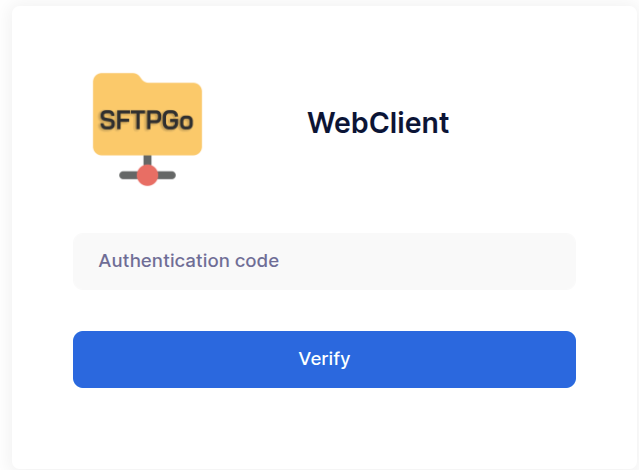
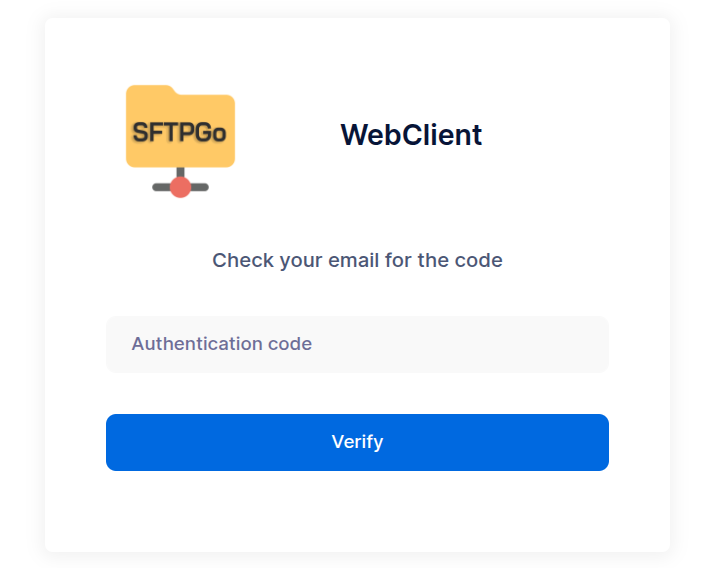
update for October release

diff --git a/docs/tutorials/shares.md b/docs/tutorials/shares.md
@@ -1,0 +1,141 @@
+# Public Shares
+
+Public shares are a quick and secure way to share files directly from the WebClient UI without creating user accounts, making collaboration with external contacts simple and efficient.
+
+Each public share generates a unique, web-accessible URL, and users can configure access controls such as:
+
+- Read-only or upload permissions
+- Optional password protection
+- Expiration date
+- Download/upload limits
+- Email-based access for extra security
+
+Public shares are managed by the users themselves, not by administrators. This makes it easy for users with access to files to securely collaborate with clients, partners, or external collaborators — without requiring administrator intervention.
+
+## Preliminary Note
+
+To enable email-based access to public shares and email notifications, you need to configure an SMTP server.
+
+To configure and test your SMTP settings, open the WebAdmin UI, then go to the "Configurations" page under the "Server Manager" section. There, you can enter the required SMTP configuration parameters.
+
+![SMTP](../assets//img/smtp.png){data-gallery="smtp"}
+
+## Create a Share with Email Authentication
+
+To share a file or folder, open the WebClient, click the three-dot menu next to the item, and select "Share".
+
+![WebClient add share](../assets/img/webclient_add_share.png){data-gallery="webclient-share"}
+
+Next, configure the sharing options. You can define the access level—read, write, or read/write—to control what actions recipients are allowed to perform.
+
+To enable email-based authentication, enter one or more email addresses and check the "Email authentication" option.
+
+![WebClient add share](../assets/img/webclient_config_share.png){data-gallery="webclient-config-share"}
+
+You can also require recipients to accept a (customizable) legal agreement before accessing the share. Additionally, you can set an expiration date, limit the maximum number of accesses, and restrict access to specific IP addresses or networks.
+
+![WebClient add share advanced](../assets/img/webclient_config_share1.png){data-gallery="webclient-config-share"}
+
+To share content with external users, go to the "Shares" page, click the "Link" icon next to the desired share, and copy the access URL. In most cases, a single directory will be shared.
+
+![WebClient share link](../assets/img/webclient_share_link.png){data-gallery="webclient-share-link"}
+
+## How External Users Access the Share
+
+External users can access the share link by entering their email address, after which they receive a one-time login code via email, valid for 10 minutes.
+
+![WebClient share login](../assets/img/webclient_share_login.png){data-gallery="webclient-share-login"}
+
+![WebClient share auth](../assets/img/webclient_share_auth.png){data-gallery="webclient-share-login"}
+
+The content visible to the user depends on the type of share they’ve been granted access to.
+
+### Read-Only Shares
+
+Read-only shares allow external users to browse the shared directories and files. Users can view file names, structure, and metadata (such as file size and modification date), but cannot upload, modify, or delete any content.
+
+Users can:
+
+- Download individual files directly.
+- Download all shared files and folders as a single compressed .zip archive for convenience.
+
+This share type is ideal for securely distributing documents, reports, or any other files where write access is not required.
+
+![WebClient read only share](../assets/img/webclient_read_only_share.png){data-gallery="webclient-ro-share"}
+
+### Write-Only shares
+
+Write-only shares allow external users to upload files to a shared location, but they cannot view, browse, or download any existing content.
+
+Upon accessing the share, users see a simple upload interface that displays:
+
+- The name of the share, to provide context.
+- Options to select files manually or use drag and drop for quick uploads.
+
+![WebClient read only share](../assets/img/webclient_write_only_share.png){data-gallery="webclient-w-share"}
+
+### Read/write Shares
+
+Read/write shares provide external users with full access to the shared content, allowing them to:
+
+- Browse files and folders within the share.
+- Download individual files or the entire shared content as a .zip archive.
+- Upload new files via manual selection or drag and drop.
+- Create new folders within the shared structure.
+
+This type of share combines the capabilities of both read-only and write-only shares, making it ideal for collaborative scenarios where external users need to both access and contribute files to a shared workspace.
+
+![WebClient read write share](../assets/img/webclient_read_write_share.png){data-gallery="webclient-rw-share"}
+
+## Automatically Send Share Links
+
+Administrators can configure an EventManager rule and corresponding action from the WebAdmin UI to automatically send an email notification to all email addresses associated with a share whenever a new share is created.
+The email includes the access link, ensuring that recipients are promptly notified without requiring any manual steps.
+
+From the WebAdmin UI, create an email action similar to the example below.
+
+![WebAdmin action add share notification](../assets/img/webadmin_action_add_share_notification.png){data-gallery="webadmin-add-share-notify"}
+
+Use the `{{.Email}}` placeholder to automatically insert the email addresses associated with the share—these are the recipients who can authenticate to access it.
+
+The share access URL follows this format:
+
+```shell
+https://sftp.example.com/web/client/pubshares/{{.ObjectName | urlPathEscape }}/browse
+```
+
+Where:
+
+- `https://sftp.example.com` is the externally accessible base URL of your SFTPGo installation.
+- `{{.ObjectName}}` expands to the ID of the share.
+- The `urlPathEscape` helper function ensures the share ID is properly URL-encoded.
+
+Finally, create an EventManager rule that triggers this action whenever a new share is created.
+
+![WebAdmin rule add share notification](../assets/img/webadmin_rule_add_share_notification.png){data-gallery="webadmin-add-share-notify"}
+![WebAdmin rule add share notification1](../assets/img/webadmin_rule_add_share_notification1.png){data-gallery="webadmin-add-share-notify"}
+
+## Enable Upload/Download Notifications
+
+SFTPGo allows administrators to configure notifications when an external user uploads or downloads a file through a share.
+
+For example, you can set up an EventManager rule and action to automatically send an email notification to the SFTPGo user who created the share.
+The notification can include:
+
+- The name and details of the file uploaded or downloaded.
+- The email address of the external user who accessed the share and performed the action.
+
+Here is an example action.
+
+![WebAdmin share event notification](../assets/img/webadmin_share_event_notification.png){data-gallery="webadmin-share-event-notify"}
+
+In this case, the action is triggered by a file system event (such as an upload or download), so:
+
+- The `{{.Email}}` placeholder expands to the email address of the SFTPGo user who created the share.
+- The `{{.ExtName}}` placeholder expands to the email address used by the external user to access the share.
+
+Here is an example rule to execute the above action.
+
+![WebAdmin share event rule](../assets/img/webadmin_share_event_rule.png){data-gallery="webadmin-share-event-notify"}
+
+Naturally, all operations performed on shares, including uploads and downloads, also recorded in the audit logs.

diff --git a/docs/ssh.md b/docs/ssh.md
@@ -8,39 +8,6 @@ The SFTP implementation supports the SFTP sever protocol [version 3](https://dat
 
 ## SSH commands
 
-Some SSH commands are implemented directly inside SFTPGo, while for others we use system commands that need to be installed and in your system's `PATH`.
-
-For system commands we have no direct control on file creation/deletion and so there are some limitations:
-
-- we cannot allow them if the target directory contains virtual folders or file extensions filters
-- system commands work only on local filesystem
-- we cannot avoid to leak real filesystem paths
-- quota check is suboptimal
-- maximum size restriction on single file is not respected
-- data at-rest encryption is not supported
-
- If quota is enabled and SFTPGo receives a system command, the used size and number of files are checked at the command start and not while new files are created/deleted. While the command is running the number of files is not checked, the remaining size is calculated as the difference between the max allowed quota and the used one, and it is checked against the bytes transferred via SSH. The command is aborted if it uploads more bytes than the remaining allowed size calculated at the command start. Anyway, we only see the bytes that the remote command sends to the local one via SSH. These bytes contain both protocol commands and files, and so the size of the files is different from the size transferred via SSH: for example, a command can send compressed files, or a protocol command (few bytes) could delete a big file. To mitigate these issues, quotas are recalculated at the command end with a full scan of the directory specified for the system command. This could be heavy for big directories. If you need system commands and quotas you could consider disabling quota restrictions and periodically update quota usage yourself using the REST API.
-
- :warning: SFTPGo attempts to sanitize system command arguments and restrict their use to the intended use cases. But these are external programs that could be used in many ways, and this could lead to unexpected behavior or even security issues. Please consider carefully before enabling the supported system commands.
-
- For these reasons we should limit system commands usage as much as possible, we currently support the following system commands:
-
-- `rsync`. The `rsync` command needs to be installed and in your system's `PATH`.
-
-At least the following permissions are required to be able to run system commands:
-
-- `list`
-- `download`
-- `upload`
-- `create_dirs`
-- `overwrite`
-- `delete`
-
-For `rsync`  we cannot avoid that it creates symlinks so if the `create_symlinks` permission is granted we add the option `--safe-links`, if it is not already set, to the received `rsync` command. This should prevent to create symlinks that point outside the home directory.
-If the user cannot create symlinks we add the option `--munge-links`, if it is not already set, to the received `rsync` command. This should make symlinks unusable (but manually recoverable).
-
-**Note**: you might consider to use SFTPGo as SFTP backend for [rclone](https://rclone.org/sftp/){:target="_blank"}, or similar software that allows to synchronize files via SFTP, instead of `rsync`, this way there are no limitations and `rclone` does not need to be installed on the server side since it uses the SFTP protocol. Suppprt for `rsync` may be removed in the future.
-
 SFTPGo supports the following built-in SSH commands:
 
 - `scp`, SFTPGo implements the SCP protocol so we can support it for cloud filesystems too and we can avoid the other system commands limitations. SCP between two remote hosts is supported using the `-3` scp option. Wildcard expansion is not supported.

diff --git a/docs/tutorials/eventmanager.md b/docs/tutorials/eventmanager.md
@@ -97,6 +97,41 @@ You can also filters events based on protocol, user and group name, filepath she
 As actions, select `upload notification`.
 Done! Try uploading a new file and you will receive the configured email notification.
 
+## PGP-compatible Encryption and Decryption
+
+PGP is a widely adopted encryption standard that ensures data confidentiality and integrity. By encrypting files before they're shared and decrypting them upon receipt, PGP protects valuable business information from unauthorized access or tampering.
+
+By using PGP actions, you can automatically encrypt or decrypt files immediately after upload.
+This supports secure, automated workflows for both sending and receiving files:
+
+- **Encrypting files for an external party**:
+The external party generates a PGP key pair and shares their public key.
+SFTPGo is configured to automatically encrypt uploaded files using the public key.
+The trading partner downloads the files and decrypts them using their private key.
+- **Decrypting files from an external party**:
+You share your public key with the external party and ask them to encrypt files before uploading.
+SFTPGo automatically decrypts the files after upload using your private key.
+The files are then available in plain form for further processing.
+
+This setup ensures end-to-end file security with minimal manual intervention.
+
+PGP actions require either a password or a key pair. When using a key pair:
+
+- For encryption, the public key is required, and the private, if provided, will be used for signing.
+- For decryption, the private key is required, and the public key, if provided, will be used for signature verification.
+
+The following example demonstrates how to configure an action to automatically encrypt files after upload. A similar approach can be used to set up automatic decryption.
+
+From the WebAdmin expand the "Event Manager" section, select "Actions" and add a new action. Create an action named `PGP encryption` set the type to `Filesystem`, the Filesystem action to `PGP` and the Public Key, like this.
+
+![PGP encryption](../assets/img/pgp_ecrypt.png){data-gallery="pgp-enc"}
+
+![PGP encryption paths](../assets//img/pgp_ecrypt_paths.png){data-gallery="pgp-enc"}
+
+The source path is defined as `/{{.VirtualPath}}`, and the target path as `/{{.VirtualPath}}.pgp`. For example, a file named `file.txt` will be encrypted and stored as `file.txt.pgp`.
+
+Now define a rule that execute this action after uploads. Additional actions can be configured as part of the rule, such as deleting the original plain text file upon successful encryption and/or sending an email notification.
+
 ## Virtual folders integration
 
 Using virtual folders with the EventManager unlocks powerful automation workflows, such as copying uploaded files to different storage locations—either within the same backend (but outside the user’s security context) or to an external server or cloud storage provider. These operations can be triggered by events like file uploads or scheduled tasks, and they require no custom scripting or complex setup.

diff --git a/docs/changelog.md b/docs/changelog.md
@@ -9,6 +9,36 @@ Upgrading to the Enterprise edition of SFTPGo is supported starting from Open So
 
 If you're migrating from an open-source installation, please follow the guide here: [**Migration from Open-Source 2.6.x to Enterprise**](tutorials/migrating.md)
 
+## Update October 9, 2025 - v2.7.20251009
+
+### New features
+
+- EventManager: Introduced support for split retention report notifications, enabling separate email notifications to be sent to individual users.
+- EventManager: Added the `{{.ExtName}}` placeholder, representing the email address used for authenticating public shares with email-based access.
+- Status page: Added display of license information.
+- WebClient: External users can now explicitly create directories in public shares.
+- WebClient: Added the ability to modify the name of a public share and display it to external users.
+- WebUI: Updated to Bootstrap 5.3.8, Axios 1.12.2, and the latest versions of other dependencies.
+- WebUI: Added support for cloning groups, rules and actions.
+- FTPD: Added TLS version and cipher suite information to the login log.
+- Windows: Added support for installing the service under a custom user account via command line.
+
+### Bug fixes
+
+- Upload Resume: Fixed edge cases related to resuming uploads with cloud storage backends.
+- WebAdmin UI: preserve condition pattern order to ensure correct filter evaluation, especially with inverse matches.
+- Cloud Storage backends: Fixed a rare bug that could cause directory listings to fail under specific conditions.
+
+### Backward incompatible changes
+
+- Removed `rsync` support. In the previous versions, rsync was executed as an external command, which means we have no insight into or control over what it actually does. From a security perspective, this is far from ideal. To be clear, there's nothing inherently wrong with `rsync` itself. However, if we were to support it properly within SFTPGo, we would need to implement the low-level protocol internally rather than relying on launching an external process. This would ensure it works seamlessly with any storage backend, just as SFTP does, for example. We recommend using one of the many alternatives that rely on the SFTP protocol, such as `rclone`.
+- To clearly differentiate the Enterprise edition from the open source version, the installer now uses a distinct GUID and installs SFTPGo into the folder named "SFTPGo Enterprise".
+
+### Documentation
+
+- Added a tutorial on [public shares](./tutorials/shares.md).
+- Expanded the Event Manager tutorial with a [PGP](./tutorials/eventmanager.md#pgp-compatible-encryption-and-decryption) usage example.
+
 ## Update August 31, 2025 - v2.7.20250831
 
 ### New features

diff --git a/docs/config-file.md b/docs/config-file.md
@@ -34,7 +34,7 @@ Supported configuration parameters for the `common` section:
 - `allowlist_status`, integer. Set to `1` to enable the allow list. The allow list can be populated using the WebAdmin or the REST API. If enabled, only the listed IPs/networks can access the configured services, all other client connections will be dropped before they even try to authenticate. Ensure to populate your allow list before enabling this setting. In multi-nodes setups, the list entries propagation between nodes may take some minutes. Default: `0`.
 - `allow_self_connections`, integer. Allow users on this instance to use other users/virtual folders on this instance as storage backend. Enable this setting if you know what you are doing. Set to `1` to enable. Default: `0`.
 - `umask`, string. Set the file mode creation mask, for example `002`. Leave blank to use the system umask. Supported on *NIX platforms. Default: blank.
-- `server_version`, string. Allow some degree of customization for the advertised software version. Set to `short` to hide the SFTPGo version number, if different from `short` the default will be used. Default: blank.
+- `server_version`, string. Allow some degree of customization for the advertised software version. Set to `short` to hide the SFTPGo version number. If set to a non-empty, valid custom string (ASCII only, max 50 characters, no newlines), it will fully override the default banner, replacing both the application name and version. The commit hash may still be appended and when SFTPGo acts as a client for another service (e.g., S3), this value may be ignored depending on the context. Default: blank.
 - `tz`, string. Defines the time zone to use for the EventManager scheduler and to control time-based access restrictions. Set to `local` to use the server's local time, otherwise UTC will be used. Default: blank.
 - `metadata`, struct containing the configuration for managing the Cloud Storage backends metadata.
   - `read`, integer. Set to `1` to read metadata before downloading files from Cloud Storage backends and making them available in notification events. Default: `0`.

diff --git a/docs/installation.md b/docs/installation.md
@@ -171,7 +171,16 @@ sudo systemctl enable sftpgo
 
 ### Windows
 
-You can download the latest Windows installer using [this link](https://download.sftpgo.com/windows/sftpgo_windows_x86_64.exe){:target="_blank"}. The installer will automatically register SFTPGo as a Windows service and start it after installation.
+You can download the latest Windows installer using [this link](https://download.sftpgo.com/windows/sftpgo_windows_x86_64.exe){:target="_blank"}. The installer includes the plugins and will automatically register SFTPGo as a Windows service, starting it immediately after installation.
+
+By default, the service runs under the Local System account. However, you can configure it to run under a different user account either through the built-in Windows Services UI or via the command line, as shown below:
+
+```shell
+C:\Program Files\SFTPGo>sftpgo.exe service uninstall
+C:\Program Files\SFTPGo>sftpgo.exe service install -c "C:\ProgramData\SFTPGo Enterprise" -l "logs\sftpgo.log" --service-user "DOMAIN\username" --service-password password
+```
+
+The installer registers SFTPGo as a Windows service only during the initial installation. Future updates will not modify the existing service configuration.
 
 ### Docker
 

diff --git a/docs/s3.md b/docs/s3.md
@@ -34,6 +34,6 @@ Other notes:
 - `rename` is a two step operation: server-side copy and then deletion. So, it is not atomic as for local filesystem.
 - We don't support renaming non empty directories since we should rename all the contents too and this could take a long time: think about directories with thousands of files: for each file we should do an AWS API call.
 - For server side encryption, you have to configure the mapped bucket to automatically encrypt objects.
-- A local home directory is still required to store temporary files.
+- A local home directory is still required to store temporary files, unless the environment variable `SFTPGO_HOOK__MEMORY_PIPES__ENABLED` is set to `1`, which allows you to avoid this requirement by using in-memory pipes.
 - Clients that require advanced filesystem-like features such as `sshfs` are not supported.
 - `chtime` not supported.

diff --git a/docs/eventmanager.md b/docs/eventmanager.md
@@ -80,6 +80,7 @@ We use Go’s template system under the hood. For a comprehensive overview, plea
 ### Placeholders
 
 - `{{.Name}}`. Username, virtual folder name, admin username for provider events, domain name for TLS certificate events. Format: string.
+- `{{.ExtName}}`: External username, set to the email address used for authenticating public shares configured with email authentication. Format: string.
 - `{{.Event}}`. Event name, for example `upload`, `download` for filesystem events or `add`, `update` for provider events. Format: string.
 - `{{.Status}}`. Status for filesystem events. 1 means no error, 2 means a generic error occurred, 3 means quota exceeded error. Format: integer.
 - `{{.Errors}}`. Error details. Format: list of strings.

diff --git a/docs/initial-configuration.md b/docs/initial-configuration.md
@@ -180,7 +180,7 @@ For detailed, step-by-step instructions, please refer to the dedicated [Two-Fact
 
 The WebClient allows users to securely share files and folders via HTTP/S links. Each share can be customized with advanced options to control access and improve security.
 
-To share a file or folder, select the desired item and click the three-dot menu (⋮) on the left. Then choose the 'Share' option from the menu.
+To share a file or folder, select the desired item and click the three-dot menu on the left. Then choose the 'Share' option from the menu.
 
 ![WebClient add share](assets/img/webclient_add_share.png){data-gallery="webclient-share"}
 

diff --git a/docs/sftpfs.md b/docs/sftpfs.md
@@ -7,9 +7,10 @@ Here are the supported configuration parameters:
 - `Endpoint`, ssh endpoint as `host:port`
 - `Username`
 - `Password`
-- `PrivateKey`
+- `PrivateKey` and optionally the `Passphrase` used to protect it
 - `Fingerprints`
-- `Prefix`
+- `SFTP root directory`
+- `SOCKS proxy`, optional SOCKS4, SOCKS4a, or SOCKS5 proxy.
 - `BufferSize`
 
 The mandatory parameters are the endpoint, the username and a password or a private key. If you define both a password and a private key the key is tried first. The provided private key should be PEM encoded, something like this:
